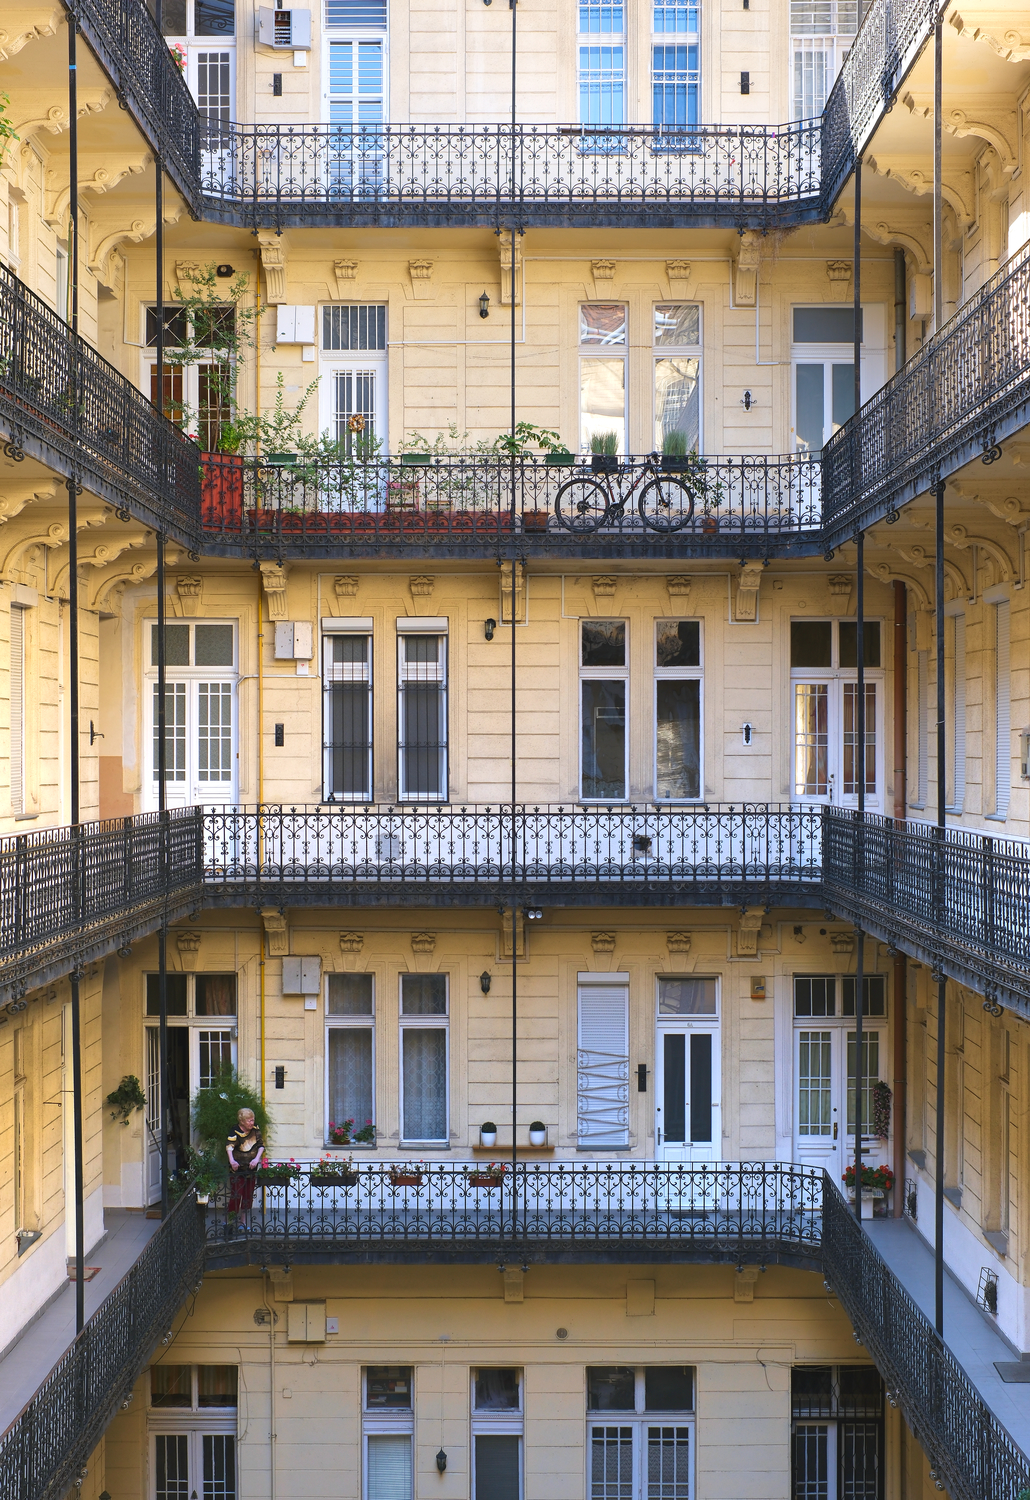
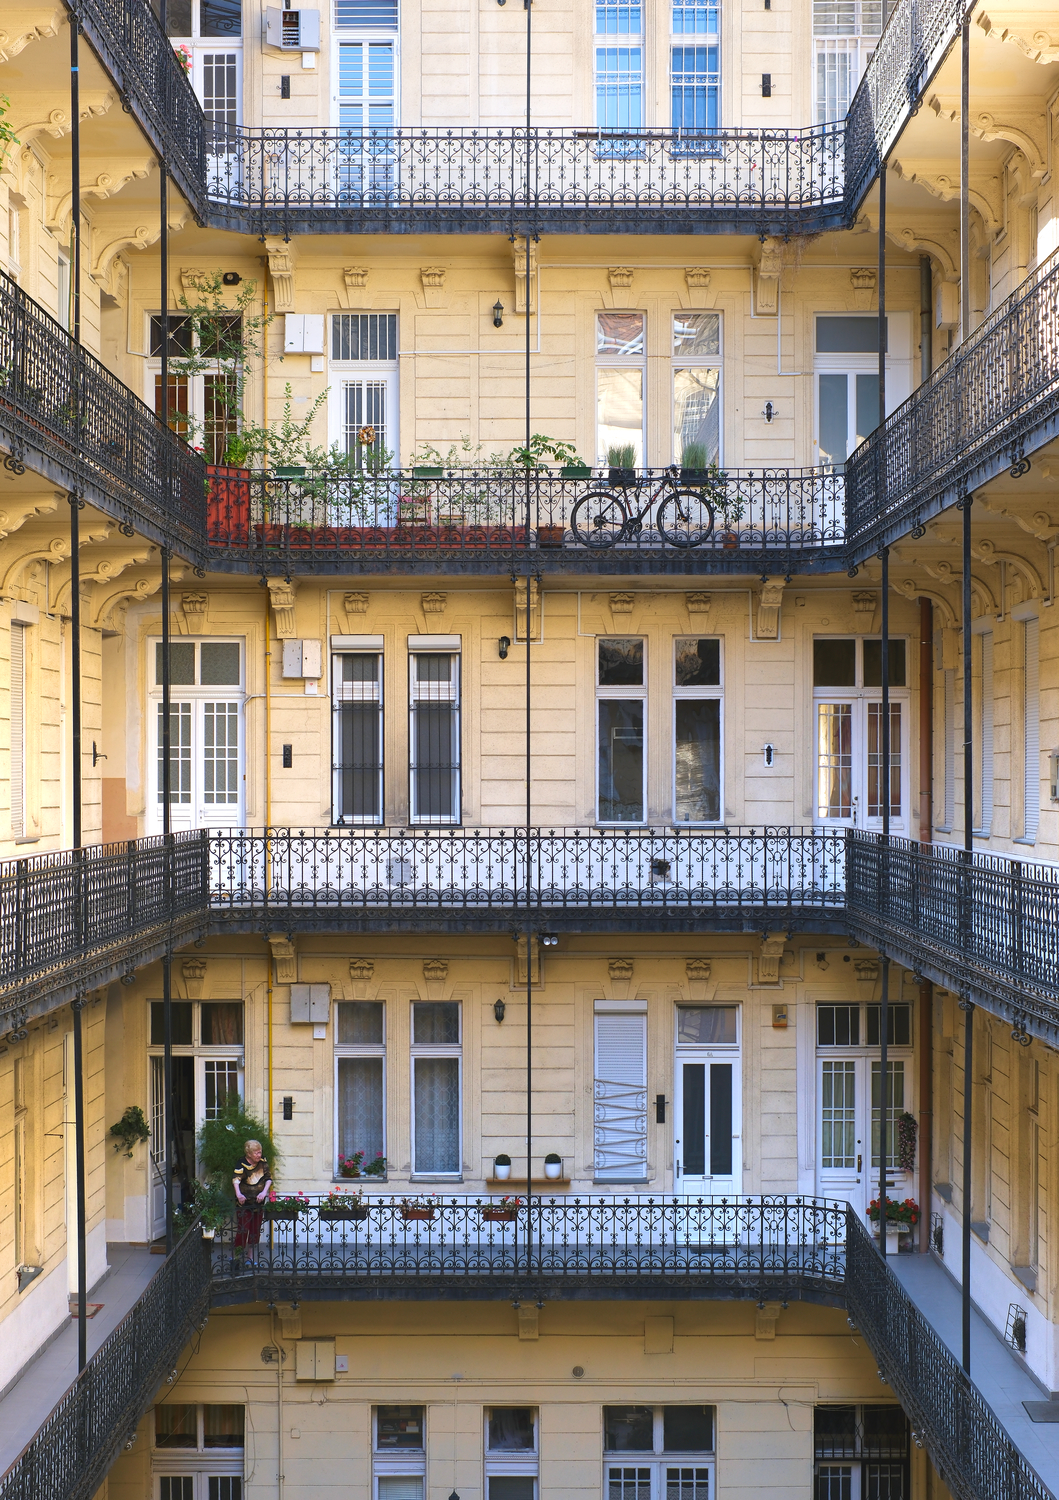
Update images

diff --git a/docs/city/index.html b/docs/city/index.html
@@ -114,7 +114,7 @@
   
   <a
     class="gatsby-resp-image-link"
-    href="/static/33d1bba7275f0ce50c70eab0c4ecbdd1/b8c47/DSF5114.jpg"
+    href="/static/23f5705596e5a184db254cfe06bb0da9/fce95/DSF5114.jpg"
     style="display: block"
     target="_blank"
     rel="noopener"
@@ -122,34 +122,34 @@
   
   <span
     class="gatsby-resp-image-wrapper"
-    style="position: relative; display: block;  max-width: 1030px; margin-left: auto; margin-right: auto;"
+    style="position: relative; display: block;  max-width: 1059px; margin-left: auto; margin-right: auto;"
   >
     <span
       class="gatsby-resp-image-background-image"
[2 lines of base64/hex data omitted]
     >
       <picture>
         <source
-          srcset="/static/33d1bba7275f0ce50c70eab0c4ecbdd1/601b1/DSF5114.webp 500w,
-/static/33d1bba7275f0ce50c70eab0c4ecbdd1/80c60/DSF5114.webp 1000w,
-/static/33d1bba7275f0ce50c70eab0c4ecbdd1/4f5fd/DSF5114.webp 1030w"
-          sizes="(max-width: 1030px) 100vw, 1030px"
+          srcset="/static/23f5705596e5a184db254cfe06bb0da9/601b1/DSF5114.webp 500w,
+/static/23f5705596e5a184db254cfe06bb0da9/80c60/DSF5114.webp 1000w,
+/static/23f5705596e5a184db254cfe06bb0da9/cb660/DSF5114.webp 1059w"
+          sizes="(max-width: 1059px) 100vw, 1059px"
           type="image/webp"
         />
         <source
-          srcset="/static/33d1bba7275f0ce50c70eab0c4ecbdd1/953fe/DSF5114.jpg 500w,
-/static/33d1bba7275f0ce50c70eab0c4ecbdd1/0a251/DSF5114.jpg 1000w,
-/static/33d1bba7275f0ce50c70eab0c4ecbdd1/b8c47/DSF5114.jpg 1030w"
-          sizes="(max-width: 1030px) 100vw, 1030px"
+          srcset="/static/23f5705596e5a184db254cfe06bb0da9/953fe/DSF5114.jpg 500w,
+/static/23f5705596e5a184db254cfe06bb0da9/0a251/DSF5114.jpg 1000w,
+/static/23f5705596e5a184db254cfe06bb0da9/fce95/DSF5114.jpg 1059w"
+          sizes="(max-width: 1059px) 100vw, 1059px"
           type="image/jpeg"
         />
         <img
           class="gatsby-resp-image-image"
           style="width: 100%; height: 100%; margin: 0; vertical-align: middle; position: absolute; top: 0; left: 0; box-shadow: inset 0px 0px 0px 400px white;"
-          src="/static/33d1bba7275f0ce50c70eab0c4ecbdd1/b8c47/DSF5114.jpg"
+          src="/static/23f5705596e5a184db254cfe06bb0da9/fce95/DSF5114.jpg"
           alt="Budapest, Hungary"
           title="Budapest, Hungary"
-          src="/static/33d1bba7275f0ce50c70eab0c4ecbdd1/b8c47/DSF5114.jpg"
+          src="/static/23f5705596e5a184db254cfe06bb0da9/fce95/DSF5114.jpg"
         />
       </picture>
       </span>
